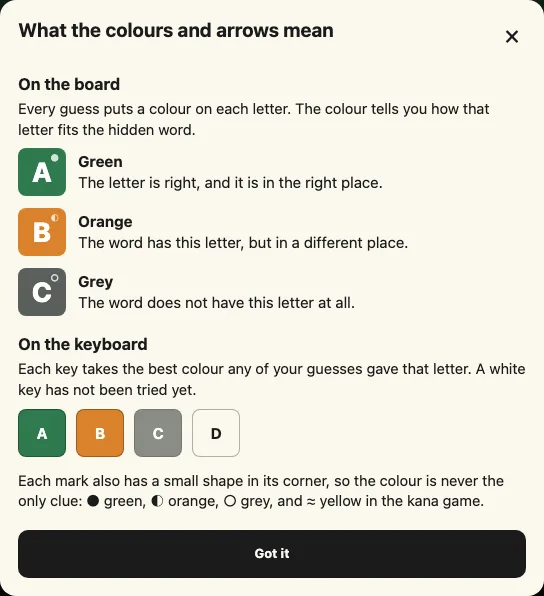
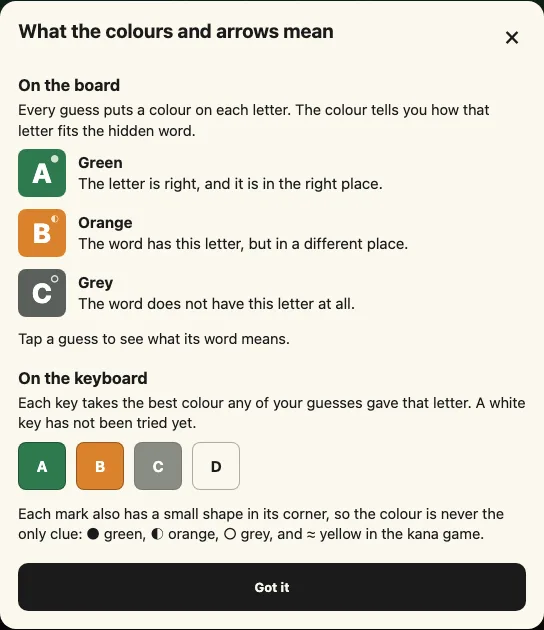
The demo shows what a kana guess means through Jisho, a development dependency of the demo alone; the stand-in table is gone, and the README, changelog and colour guide picture say so
Ticket: MODULES-185

Changed region(s): [[0.0312, 0.1208, 0.9688, 0.9664], [0.0, 0.9966, 1.0, 1.0], [0.0312, 0.0302, 0.5938, 0.0604]]

diff --git a/demo/page.js b/demo/page.js
@@ -5,6 +5,7 @@
 import { dayKey, KOTOBA_STRINGS, kotobaSay } from "./dist/index.js";
 import { loadWordList, WORD_LIST_SIZES } from "./dist/load.js";
 import { mountKotoba } from "./dist/play.js";
+import { jishoMeanings } from "./meanings.js";
 import { mountPhrases } from "./phrases.js";
 
 const $ = (id) => document.getElementById(id);
@@ -31,7 +32,7 @@ const PAGE = {
     creditLetters:
       "The word lists were made from open dictionaries and cleaned of names, brands and subtitle noise; the package's README names each source and its licence.",
     creditKana:
-      "The Japanese words are from JMdict ({release}), the Electronic Dictionary Research and Development Group's dictionary, used under its licence (CC BY-SA 4.0).",
+      "The Japanese words, and the meanings shown when a guess is tapped (by way of the Jisho package), are from JMdict ({release}), the Electronic Dictionary Research and Development Group's dictionary, used under its licence (CC BY-SA 4.0).",
     counts: "This list: {easy} easy answers, inside {answers} answers, inside {allowed} words that may be guessed.",
     dailyNote: "Today's word is the same for everybody ({day}, UTC) and changes at midnight UTC.",
     usingTitle: "Using it",
@@ -91,7 +92,7 @@ const PAGE = {
     creditLetters:
       "単語リストは公開辞書から作り、人名・ブランド名・字幕のノイズを取り除いています。出どころとライセンスは README に書いてあります。",
     creditKana:
-      "日本語の単語は JMdict（{release}）から。電子辞書研究開発グループの辞書で、そのライセンス（CC BY-SA 4.0）のもとで使っています。",
+      "日本語の単語と、予想をタップしたときに出る意味（Jisho パッケージ経由）は、JMdict（{release}）から。電子辞書研究開発グループの辞書で、そのライセンス（CC BY-SA 4.0）のもとで使っています。",
     counts:
       "このリスト: やさしい答え{easy}語、答え{answers}語、推測できる単語{allowed}語（やさしい答えは答えの中、答えは推測できる単語の中にあります）。",
     dailyNote: "今日の単語は誰にとっても同じ（{day}、UTC）で、UTCの午前0時に変わります。",
@@ -168,35 +169,6 @@ const language = familyLanguage({
 const t = (key, values = {}) => kotobaSay(language.word(key), values);
 const phrases = mountPhrases({ t });
 const isKana = () => state.words === "ja";
-
-// A STAND-IN FOR MEANINGS, so the demo shows the tap-a-guess line and the end card's meaning. It knows a handful of words
-// and says nothing for the rest, as a real source does for a word it lacks. When Moji (@johnmorrisdotca/moji) can
-// supply them, swap these two things and nothing else: delete `STAND_IN` and `standIn`, and pass Moji's lookup as
-// `meanings` to `mountKotoba` below (it is called with the word and the list's language, and resolves a line or null).
-const STAND_IN = {
-  en: {
-    crane: "a tall bird with long legs and a long neck",
-    house: "a building where people live",
-    stone: "a small piece of rock",
-    bread: "food baked from flour and water",
-    apple: "a round fruit with red or green skin",
-    plant: "a living thing that grows in the ground",
-    water: "the clear liquid that rain is made of",
-    light: "what lets us see; not heavy",
-    sweet: "tasting like sugar",
-    train: "a line of carriages pulled along rails",
-  },
-  fr: { livre: "book", pomme: "apple", chien: "dog", maison: "house", table: "table" },
-  de: { hund: "dog", apfel: "apple", brot: "bread", haus: "house", katze: "cat" },
-  ja: {
-    さくら: "cherry tree; cherry blossom",
-    こころ: "heart; mind",
-    ひかり: "light",
-    あした: "tomorrow",
-    くるま: "car",
-  },
-};
-const standIn = async (word, words) => STAND_IN[words]?.[word] ?? null;
 
 let play = null;
 let release = "";
@@ -304,7 +276,7 @@ play = mountKotoba($("board"), {
       ? typeof window.kotobaTestMeanings === "function"
         ? window.kotobaTestMeanings
         : undefined
-      : standIn,
+      : jishoMeanings,
 });
 
 for (const button of $("languages").children) {

diff --git a/demo/meanings.js b/demo/meanings.js
@@ -1,0 +1,52 @@
+// What a Japanese guess means, for the demo: Jisho (@johnmorrisdotca/jisho), the family's dictionary of Japanese words.
+// Kotoba holds no dictionary and does not depend on one: the game takes a `meanings(word, words)` function, and this is
+// the demo's. Jisho is a development dependency of the demo only, and site.mjs copies the few files this needs into site/jisho/.
+// A reading that several words share shows the commonest two or three with their written forms ("紙 paper · 神 god · 髪 hair"),
+// kept to about 60 characters. English, French and German show nothing yet: their meanings are another ticket.
+import { loadWords, wordsOf } from "./jisho/words.js";
+
+/** The longest line, in characters, and the longest each entry may be when there are several. */
+const LONGEST = 60;
+const EACH = 22;
+const SEPARATOR = " · ";
+/** What a game for children leaves out even where the dictionary does not mark it: a line that says one of these is not shown. */
+const NOT_FOR_CHILDREN =
+  /\b(kill\w*|murder\w*|slay\w*|suicid\w*|sex\w*|rape\w*|genital\w*|prostitut\w*|abus\w*|torture\w*|massacre)\b/i;
+
+/** The first plain gloss of a meaning: "god, deity, divinity; god-tier" is "god"; a note in brackets is dropped. */
+function firstGloss(meaning) {
+  const gloss = meaning
+    .split(";")[0]
+    .split(",")[0]
+    .replace(/\s*\([^)]*\)/g, "")
+    .trim();
+  return gloss.length > EACH ? `${gloss.slice(0, EACH - 1).replace(/\s+\S*$/, "")}…` : gloss;
+}
+
+/** The line for a reading from the words Jisho has for it, commonest first, or null when there is nothing to show. */
+export function lineOf(reading, found) {
+  const seen = new Set();
+  const parts = [];
+  for (const word of found) {
+    const gloss = firstGloss(word.meaning);
+    if (gloss === "" || gloss.endsWith("…") || NOT_FOR_CHILDREN.test(word.meaning) || seen.has(gloss.toLowerCase()))
+      continue;
+    seen.add(gloss.toLowerCase());
+    // A word with no kanji, or written here as its reading, is shown as its meaning alone.
+    parts.push(
+      word.written === reading || /^[ぁ-ゖァ-ヺー]+$/u.test(word.written) ? gloss : `${word.written} ${gloss}`,
+    );
+    if (parts.length === 3) break;
+  }
+  for (let count = parts.length; count > 0; count -= 1) {
+    const line = parts.slice(0, count).join(SEPARATOR);
+    if ([...line].length <= LONGEST) return line;
+  }
+  return parts[0] === undefined ? null : `${[...parts[0]].slice(0, LONGEST - 1).join("")}…`;
+}
+
+/** The `meanings` option of `mountKotoba`: kana words are looked up as readings; every other list says nothing. */
+export async function jishoMeanings(word, words) {
+  if (words !== "ja") return null;
+  return lineOf(word, wordsOf(await loadWords(word), word));
+}

diff --git a/CHANGELOG.md b/CHANGELOG.md
@@ -8,7 +8,7 @@ All notable changes to this project are written here. The format follows
 
 ### Added
 
-- **A guess can be tapped to see what its word means.** A new option, `meanings: (word, words) => Promise<string | null>`, lets a host that has a dictionary supply the words; Kotoba holds none and has no dependency on one. Tapping, hovering or focusing a guess's row puts the meaning in the status line, which keeps its height (the board does not change size at any width, and the page's width holds too); the line goes back on a tap elsewhere, when the pointer leaves, on Escape or when you type. A press on a row never moves the focus, so typing carries on. The hidden word's meaning is asked for only after the round is over, and goes on the end card as one small line under the tiles. A `null`, an empty line or a failure draws nothing. The colour guide says a guess can be tapped, only when the option was given; without it the game is exactly as it was. Two new strings in `KOTOBA_STRINGS` (`guideTap`, `meaningFor`), English and Japanese. The demo uses a small stand-in of a few words until a real source is wired in.
+- **A guess can be tapped to see what its word means.** A new option, `meanings: (word, words) => Promise<string | null>`, lets a host that has a dictionary supply the words; Kotoba holds none and has no dependency on one. Tapping, hovering or focusing a guess's row puts the meaning in the status line, which keeps its height (the board does not change size at any width, and the page's width holds too); the line goes back on a tap elsewhere, when the pointer leaves, on Escape or when you type. A press on a row never moves the focus, so typing carries on. The hidden word's meaning is asked for only after the round is over, and goes on the end card as one small line under the tiles. A `null`, an empty line or a failure draws nothing. The colour guide says a guess can be tapped, only when the option was given; without it the game is exactly as it was. Two new strings in `KOTOBA_STRINGS` (`guideTap`, `meaningFor`), English and Japanese. The demo wires in Jisho (`@johnmorrisdotca/jisho` 1.0.0, a development dependency of the demo alone, never of Kotoba) for kana words: a reading several words share shows the commonest two or three with their written forms (`紙 paper · 神 god · 髪 hair`) in about sixty characters, from one small piece of the dictionary and none of the files for words that are not for children; English, French and German show nothing there yet. Its credit line now names Jisho and JMdict for the meanings, in both languages.
 
 ## [1.4.1] - 2026-11-02
 

diff --git a/README.md b/README.md
@@ -164,7 +164,7 @@ Each picture is the board the package draws (`mountKotoba`), taken from [the dem
 <td align="center" valign="top" width="33%">
 <picture>
 <source media="(prefers-color-scheme: dark)" srcset="https://raw.githubusercontent.com/johnmorrisdotca/kotoba/main/docs/images/colour-guide-desk-dark.webp">
-<img src="https://raw.githubusercontent.com/johnmorrisdotca/kotoba/main/docs/images/colour-guide-desk-light.webp" alt="The colour guide dialog: it says what the colours and arrows mean, with a green, an orange and a grey tile each explained, the keyboard's four key colours, the small shape each mark carries, and a Got it button." width="400">
+<img src="https://raw.githubusercontent.com/johnmorrisdotca/kotoba/main/docs/images/colour-guide-desk-light.webp" alt="The colour guide dialog: it says what the colours and arrows mean, with a green, an orange and a grey tile each explained, a line saying a guess can be tapped to see what its word means, the keyboard's four key colours, the small shape each mark carries, and a Got it button." width="400">
 </picture>
 <br><em><strong>Colour guide.</strong> Every colour and mark explained, one press under the keyboard.</em>
 </td>
@@ -748,6 +748,24 @@ mountKotoba(element, {
   exactly as it was.
 
 The meanings are the host's, and so is their licence and their credit: the package carries none.
+
+The [demo](https://johnmorrisdotca.github.io/kotoba/) shows it with [Jisho](https://github.com/johnmorrisdotca/jisho)
+(`@johnmorrisdotca/jisho`, the family's dictionary of Japanese words), a development dependency of the demo alone; Kotoba
+itself depends on nothing. A kana guess is looked up there as a reading, which fetches one small piece of the dictionary, and
+a reading several words share shows the commonest two or three with their written forms, as `紙 paper · 神 god · 髪 hair`,
+kept to about sixty characters. Jisho's default words leave out what JMdict marks as not for children, and its files for
+those are never fetched. English, French and German show nothing in the demo yet. The function in `demo/meanings.js` is the
+whole of the wiring:
+
+```ts no-check
+import { loadWords, wordsOf } from "@johnmorrisdotca/jisho/words";
+
+mountKotoba(element, {
+  words: "ja",
+  // A line of the words Jisho has for the reading, or null for another list.
+  meanings: async (word, words) => (words === "ja" ? lineOf(word, wordsOf(await loadWords(word), word)) : null),
+});
+```
 
 ## The command line
 
